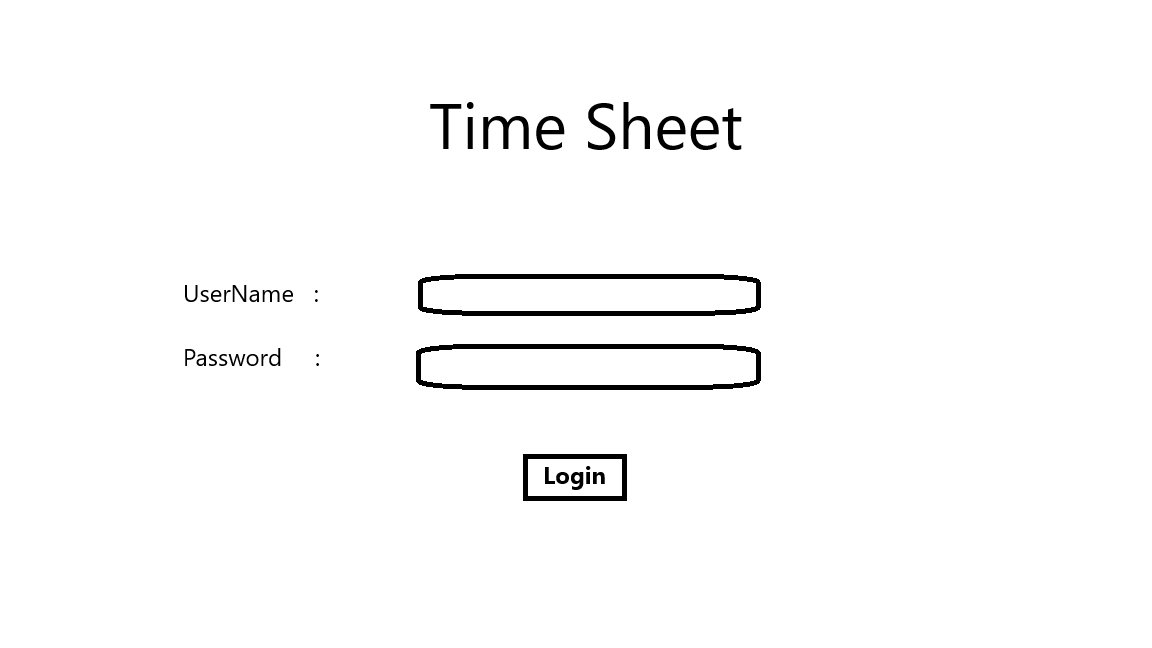
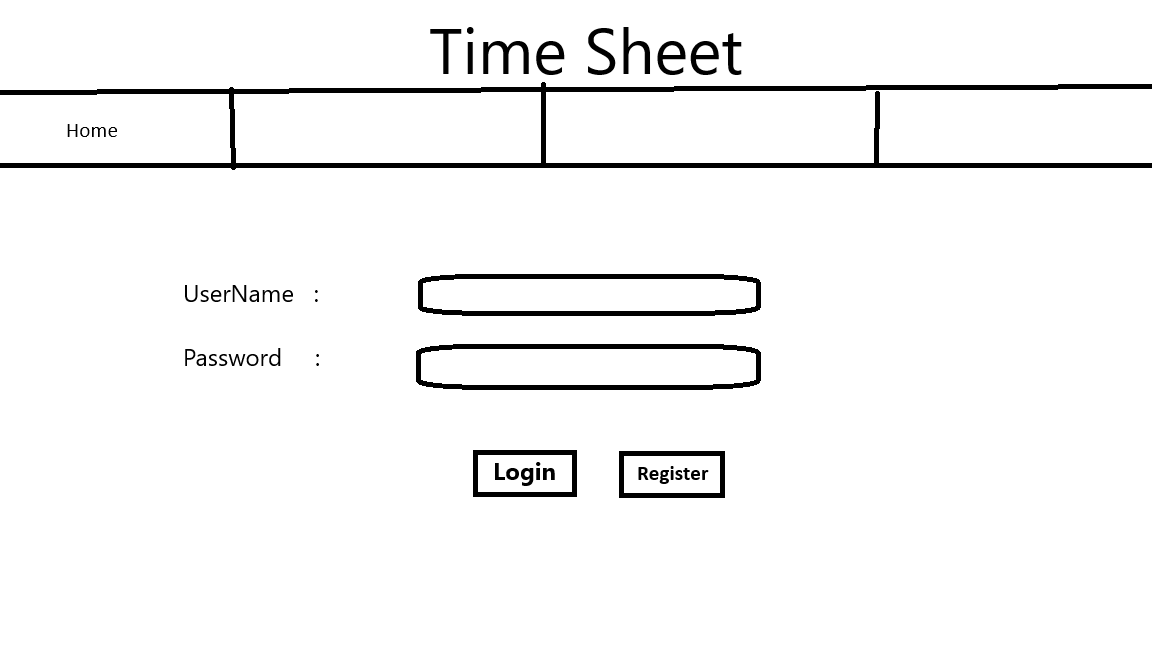
29th ui changes

Changed region(s): [[0.0, 0.0309, 1.0, 0.2778], [0.4062, 0.679, 0.6562, 0.7716], [0.0625, 0.1852, 0.0938, 0.216]]

diff --git a/src/components/Login/Login.tsx b/src/components/Login/Login.tsx
@@ -1,0 +1,40 @@
+import "./Login.css";
+
+function Login() {
+  return (
+    <>
+      <div>TimeSheet</div>
+      <div>
+        <label>
+          Login:
+          <input type="text" title="login" />
+        </label>
+      </div>
+      <div>
+        <div>
+          <label>
+            UserName:
+            <input type="text" title="username" />
+          </label>
+        </div>
+      </div>
+      <div>
+        <div>
+          <label>
+            Password:
+            <input type="text" title="password" />
+          </label>
+        </div>
+      </div>
+      <div>
+        <div>
+          <button type="submit">Login</button>
+        </div>
+        <div>
+          <button type="submit">Register</button>
+        </div>
+      </div>
+    </>
+  );
+}
+export default Login;

diff --git a/index.html b/index.html
@@ -4,8 +4,19 @@
     <meta charset="UTF-8" />
     <meta name="viewport" content="width=device-width, initial-scale=1.0" />
     <title>TimeSheet</title>
+    <link rel="stylesheet" href="./index.html" />
   </head>
   <body>
+    <div class="flex center big">
+      <div>TimeSheet</div>
+    </div>
+    <hr class="color-grey" />
+    <ol class="mp0 navbar">
+      <li><a href="#">Home</a></li>
+      <li><a href="#">Fill TimeSheet</a></li>
+      <li><a href="#">Report</a></li>
+      <li><a href="#">Exception</a></li>
+    </ol>
     <div id="root"></div>
     <script type="module" src="/src/main.tsx"></script>
   </body>

diff --git a/src/index.css b/src/index.css
@@ -1,0 +1,37 @@
+body {
+  background-color: #0063b2;
+  color: #9cc3d5;
+  font-family: "Times New Roman", Times, serif;
+}
+button {
+  background-color: #9cc3d5;
+  color: #0063b2;
+  border-color: #9cc3d5;
+}
+.flex {
+  display: flex;
+  width: 100%;
+}
+.center {
+  justify-content: center;
+}
+.big {
+  font-size: 36px;
+}
+.color-grey {
+  color: #9cc3d5;
+}
+
+.mp0 {
+  margin: 0px;
+  padding: 0px;
+}
+.navbar {
+  list-style: none;
+}
+a:link {
+  color: #9cc3d5;
+}
+a:hover {
+  color: #9cd5a5;
+}

diff --git a/src/main.tsx b/src/main.tsx
@@ -1,9 +1,10 @@
 import { createRoot } from "react-dom/client";
-import App from "./App.tsx";
+import Login from "./components/Login/Login.tsx";
 import { StrictMode } from "react";
+import "./index.css";
 
 createRoot(document.getElementById("root")!).render(
   <StrictMode>
-    <App />
+    <Login />
   </StrictMode>
 );

diff --git a/src/components/Header/header.tsx b/src/components/Header/header.tsx
@@ -1,0 +1,10 @@
+function Header()
+{
+    return(
+        <>
+        <div>
+            
+        </div>
+        </>
+    )
+}

diff --git a/src/components/Login/Login.css b/src/components/Login/Login.css
@@ -1,0 +1,3 @@
+.class{
+
+}
